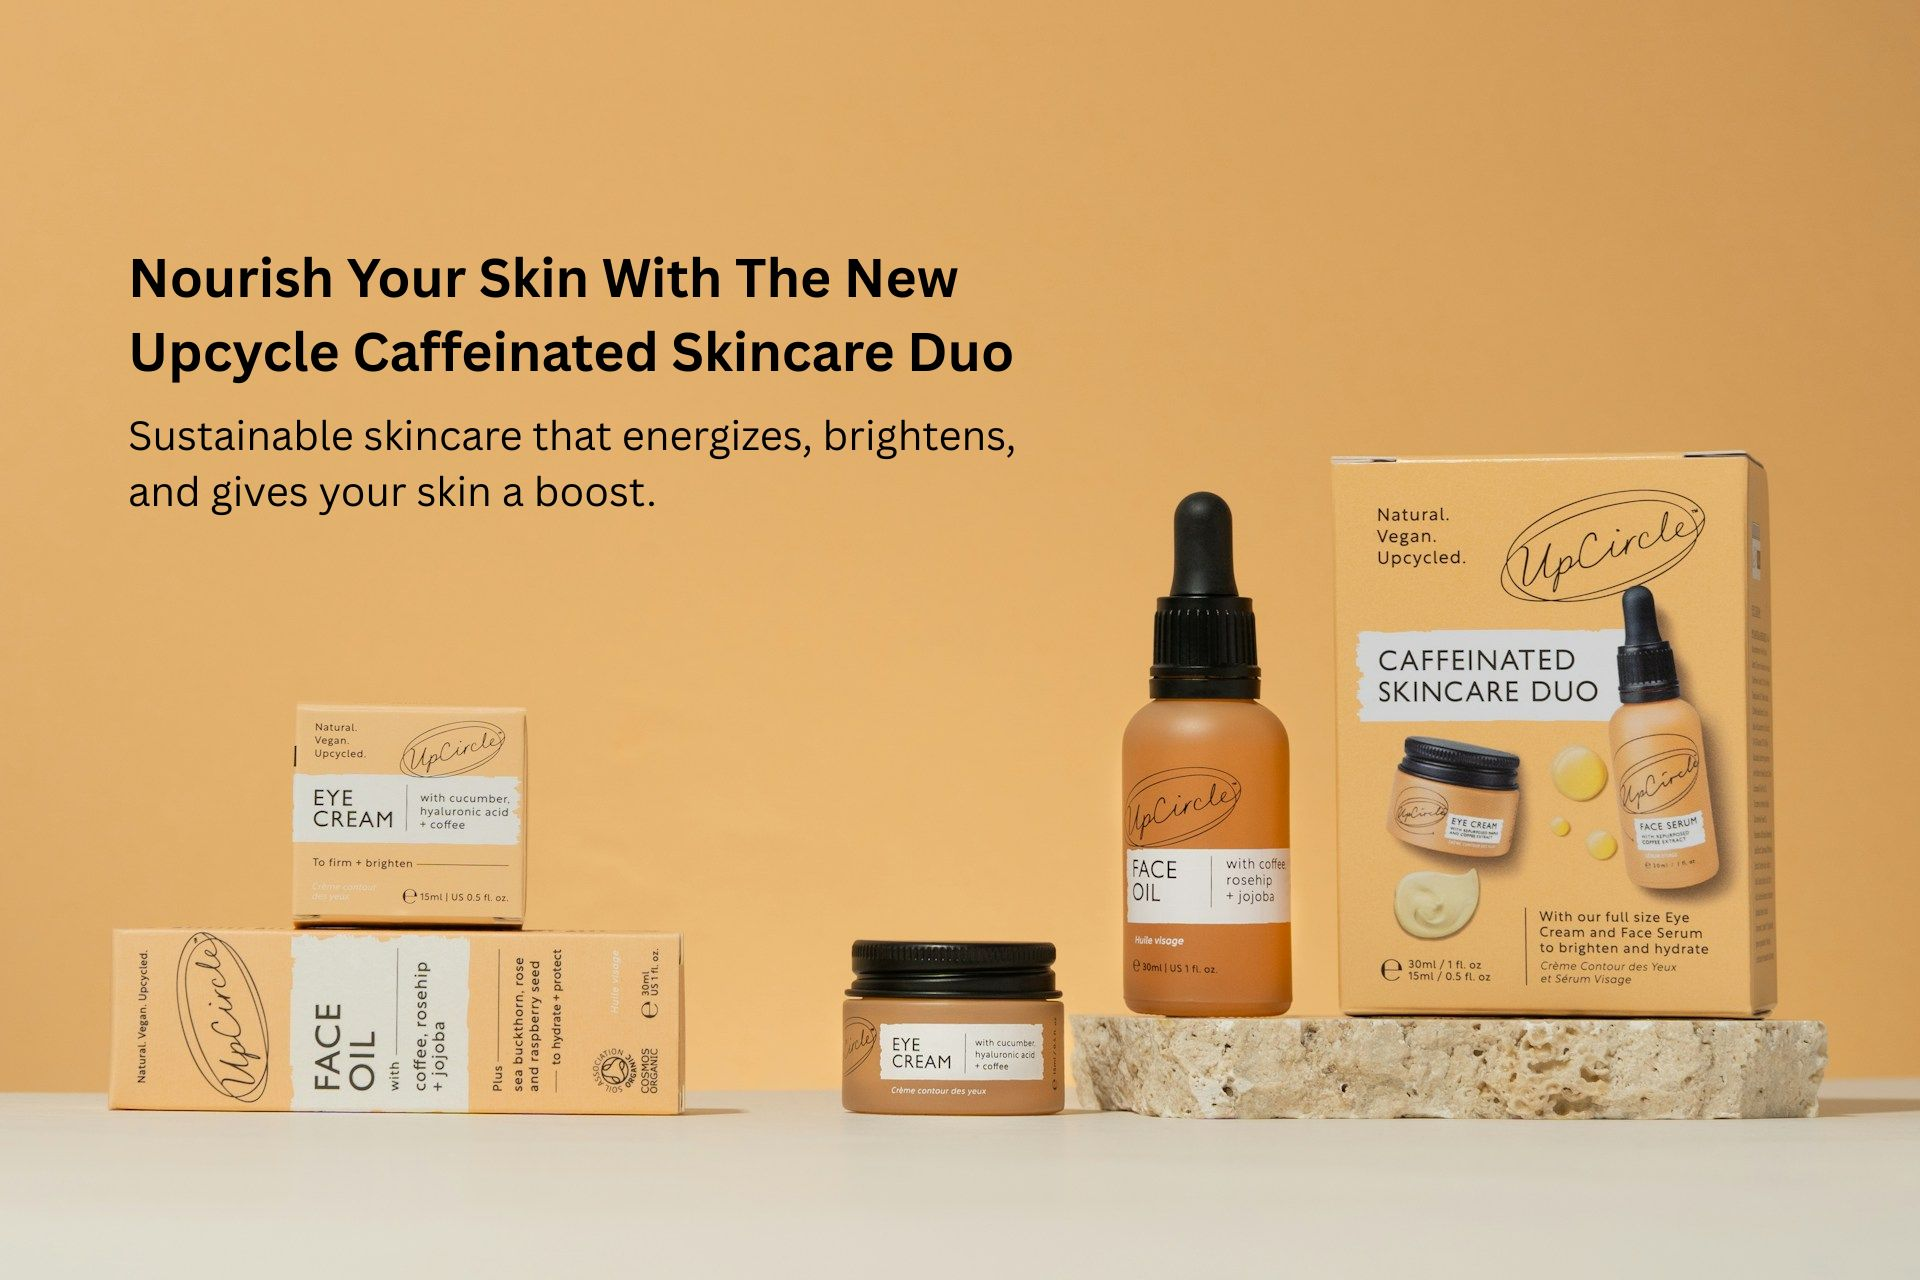
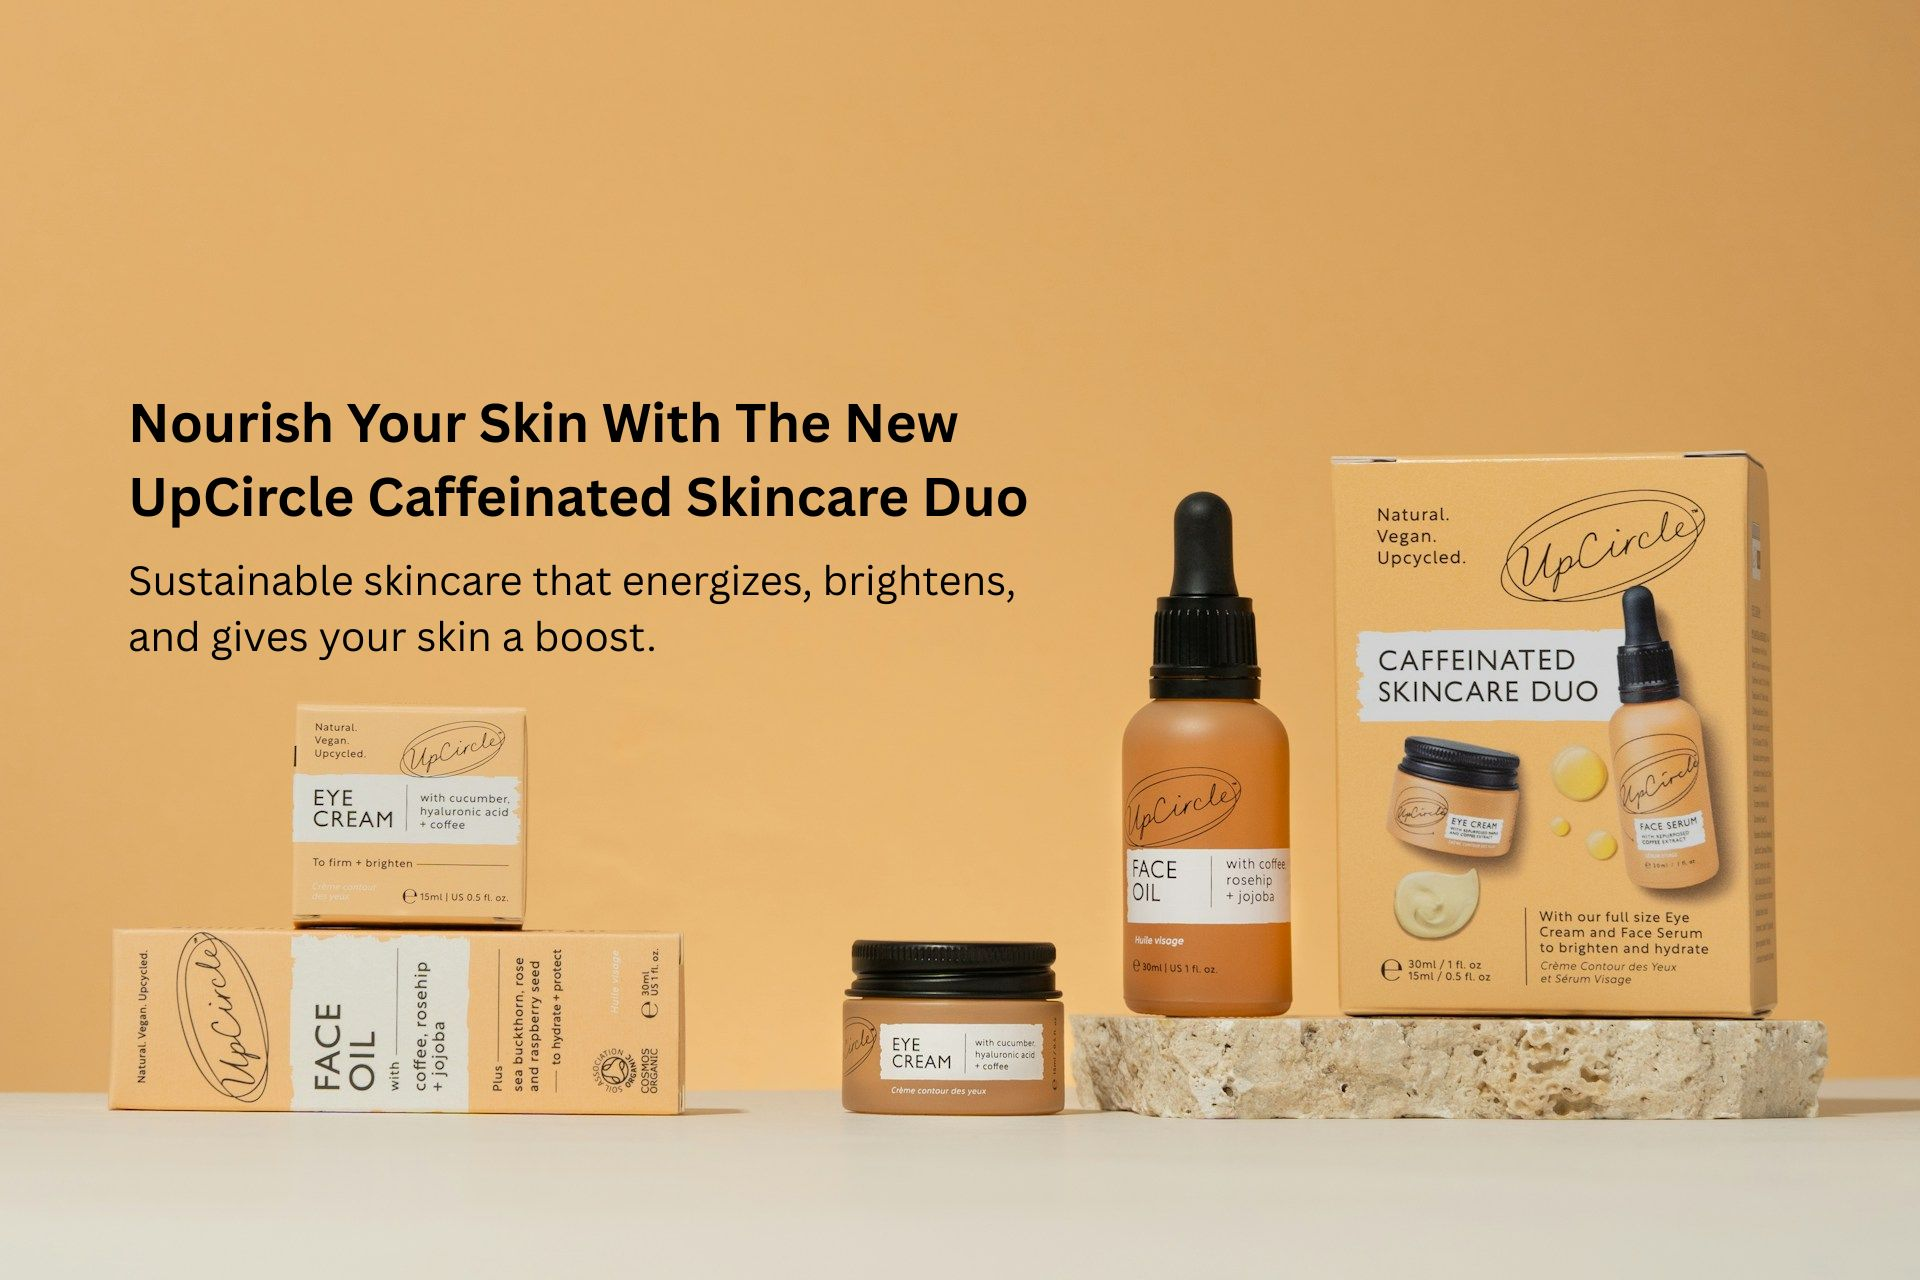
Adjust HomePage design for cleaner appearance

Changed region(s): [[0.0625, 0.1875, 0.5312, 0.4062], [0.0625, 0.4375, 0.5312, 0.5312]]

diff --git a/src/components/Pages/HomePage/HomePage.module.css b/src/components/Pages/HomePage/HomePage.module.css
@@ -10,10 +10,10 @@
   background-image: url(../../../assets/images/hero/skincare.jpg);
   background-size: cover;
   background-repeat: no-repeat;
-  background-position: 50% 30%;
-  max-height: 100%;
+  background-position: 50% 60%;
   aspect-ratio: 16 / 9;
-  border-radius: 10px;
+  max-height: 100vh;
+  width: 100%;
   max-inline-size: 100%;
   box-shadow: var(--box-shadow-light);
   position: relative;
@@ -28,8 +28,8 @@
   border: none;
   border-radius: 10px;
   padding: 1rem;
-  top: 46%;
-  left: 6.8%;
+  top: 53%;
+  left: 6.7%;
   transition: background-color 0.3s ease;
   cursor: pointer;
 }
@@ -52,6 +52,7 @@
   grid-template-rows: repeat(2, minmax(200px, 400px));
   gap: 1.5rem;
   border-radius: 10px;
+  margin-inline: 3rem;
 }
 
 .categoriesGrid > div {
@@ -114,9 +115,10 @@
   display: grid;
   grid-template-columns: 2fr 2fr 1fr;
   grid-template-rows: 1fr 1fr;
-  gap: 1rem;
+  gap: 1.5rem;
   height: 500px;
   position: relative;
+  margin-inline: 3rem;
 }
 
 .sustainability::before,
@@ -192,7 +194,8 @@
   align-items: center;
   flex-direction: column;
   background-image: url(../../../assets/images/newsletter/newsletter.jpg);
-  width: 100%;
+  max-width: 100%;
+  margin-inline: 3rem;
   height: 350px;
   background-size: cover;
   background-position: center;
@@ -235,7 +238,7 @@
   border-radius: 20px;
   border: none;
   outline: none;
-  padding: 0.9rem 7.5rem 0.9rem 1rem;
+  padding: 0.9rem 6.8rem 0.9rem 1rem;
   position: relative;
   box-shadow: var(--box-shadow-light);
   margin-bottom: 1.5rem;

diff --git a/src/components/Header/Header.jsx b/src/components/Header/Header.jsx
@@ -1,6 +1,5 @@
 import { Link } from "react-router";
 import { Search } from "lucide-react";
-import { ShoppingBag, ShoppingCart, Heart } from "lucide-react";
 import logo from "../../assets/icons/logo.svg";
 import styles from "./Header.module.css";
 
@@ -21,9 +20,12 @@ function Header() {
             id="search"
             name="search"
             placeholder="Skincare"
+            size="30"
             className={styles.searchInput}
           ></input>
-          <button type="button" className={styles.searchButton}>Search</button>
+          <button type="button" className={styles.searchButton}>
+            Search
+          </button>
         </div>
 
         <ul className={styles.navLinks}>

diff --git a/src/components/Header/Header.module.css b/src/components/Header/Header.module.css
@@ -19,7 +19,7 @@ nav {
   align-items: center;
   gap: 1rem;
   text-align: center;
-  font-size: 2.2rem;
+  font-size: 2rem;
 }
 
 .logo {
@@ -53,11 +53,12 @@ nav {
 
 .searchInput {
   border-radius: 20px;
-  padding: 0.7rem 8rem 0.7rem 2.5rem;
+  padding: 0.7rem 5rem 0.7rem 2.5rem;
   width: 100%;
-  border: 1px solid black;
+  border: none;
   outline: none;
-  background-color: rgb(0, 0, 0, 0);
+  background-color: white;
+  box-shadow: var(--box-shadow-light);
 }
 
 .searchInput::placeholder {

diff --git a/src/App/App.jsx b/src/App/App.jsx
@@ -11,12 +11,13 @@ function App() {
 
   return (
     <div className={styles.App}>
+      <header
+        className={isHomePage ? styles.overlayHeader : styles.normalHeader}
+      >
+        <Header />
+      </header>
+
       <main>
-        <header
-          className={isHomePage ? styles.overlayHeader : styles.normalHeader}
-        >
-          <Header />
-        </header>
         <Outlet context={{ cartItems, setCartItems }} />
       </main>
 

diff --git a/src/App/App.module.css b/src/App/App.module.css
@@ -1,11 +1,11 @@
 .App {
   display: grid;
-  grid-template-rows: minmax(100px, auto) 1fr auto;
+  grid-template-rows: minmax(100px, auto) 1fr;
   min-height: 100vh;
   background-color: #f8f8f8;
-  padding: 2rem 3rem;
   overflow-x: hidden;
   gap: 2rem;
+  position: relative;
 }
 
 .overlayHeader {
@@ -20,8 +20,4 @@
   margin-bottom: 2rem;
   background-color: white;
   border-radius: 10px;
-}
-
-main {
-  position: relative;
 }

diff --git a/src/components/Pages/HomePage/HomePage.jsx b/src/components/Pages/HomePage/HomePage.jsx
@@ -9,7 +9,7 @@ function HomePage() {
   return (
     <div className={styles.HomePage}>
       <section className={styles.hero}>
-        <button type="button">Explore Skincare</button>
+        {/* <button type="button">Explore Skincare</button> */}
       </section>
 
       <section className={styles.categoriesContainer}>

diff --git a/src/components/Footer/Footer.module.css b/src/components/Footer/Footer.module.css
@@ -3,7 +3,6 @@
   flex-direction: column;
   justify-content: center;
   background-color: #cccccc;
-  border-radius: 10px;
   align-items: center;
   padding: 1rem;
   max-width: 100%;
